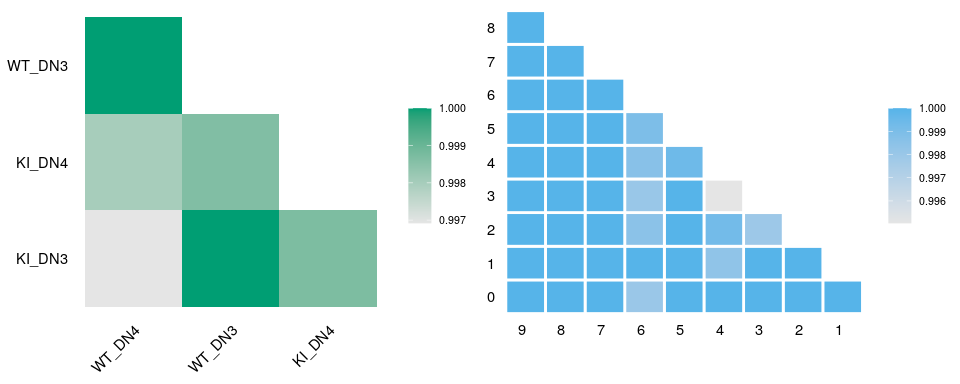
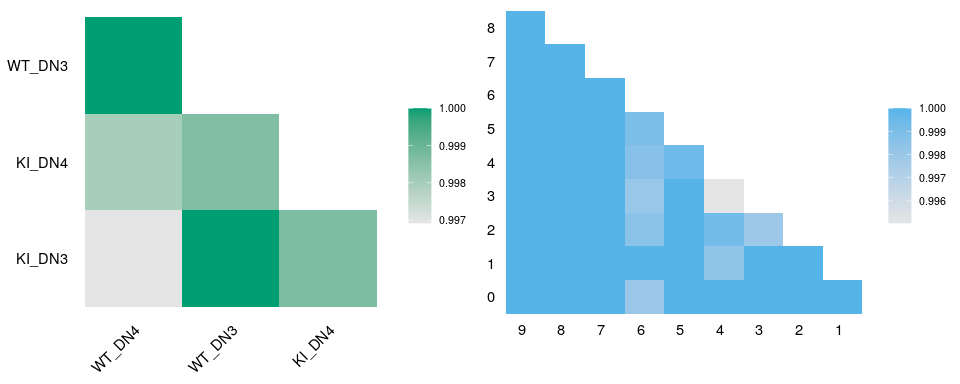
update plot_usage

Changed region(s): [[0.5312, 0.1875, 0.9062, 0.8438], [0.5312, 0.0938, 0.5938, 0.125]]

diff --git a/README.md b/README.md
@@ -459,32 +459,29 @@ calc_usage(
 
 <br>
 
-The companion function `plot_usage` can be used to create a heatmap
-summarizing these results. Using the `yaxis` argument, the percent or
-absolute count (frequency) can be used for plotting. The genes plotting
-can also be selected using the `plot_genes` argument, or the total
-number of genes to plot can be passed to `n_genes`.
-
-In this example we are only plotting the top 10 genes that have the
-highest average usage.
+The function `plot_usage` can be used to summarize these results. Using
+the `yaxis` argument, the percent or absolute count (frequency) can be
+used for plotting. The genes plotted can also be selected using the
+`plot_genes` argument, or the number of top genes (most frequent) to
+plot can be specified with `n_genes`.
 
 ``` r
 plot_usage(
-  sobj_in     = so_tcr,                  # Seurat object
-  gene_cols   = "v_gene",                # meta.data column(s) containing genes
-  cluster_col = "orig.ident",            # meta.data column containing cell labels
-  chain       = "TRB",                   # Chain to use for filtering genes
-  chain_col   = "chains",                # meta.data column containing chains
+  sobj_in     = so_tcr,                # Seurat object
+  gene_cols   = "v_gene",              # meta.data column(s) containing genes
+  cluster_col = "orig.ident",          # meta.data column containing cell labels
+  type        = "bar",                 # Type of plot
+  chain       = "TRB",                 # Chain to use for filtering genes
+  chain_col   = "chains",              # meta.data column containing chains
   
-  yaxis       = "percent",               # Units to plot
-  plot_colors = c("grey90", "#d7301f"),  # Colors to use for heatmap
-  plot_genes  = NULL,                    # A list of genes to plot
-  n_genes     = NULL,                    # The number of top genes to plot
+  yaxis       = "percent",             # Units to plot
+  plot_colors = ito_cols,              # Colors to use for heatmap
+  plot_genes  = NULL,                  # A list of genes to plot
+  n_genes     = NULL,                  # The number of top genes to plot
   
-  size        = 0.2,                     # Additional ggplot options
-  color       = "white"                  # Additional ggplot options
-) +
-  coord_flip()
+  size        = 0.2,                   # Additional ggplot options
+  color       = "white"                # Additional ggplot options
+)
 ```
 
 ![](man/figures/README-usage_plots_1-1.png)<!-- -->
